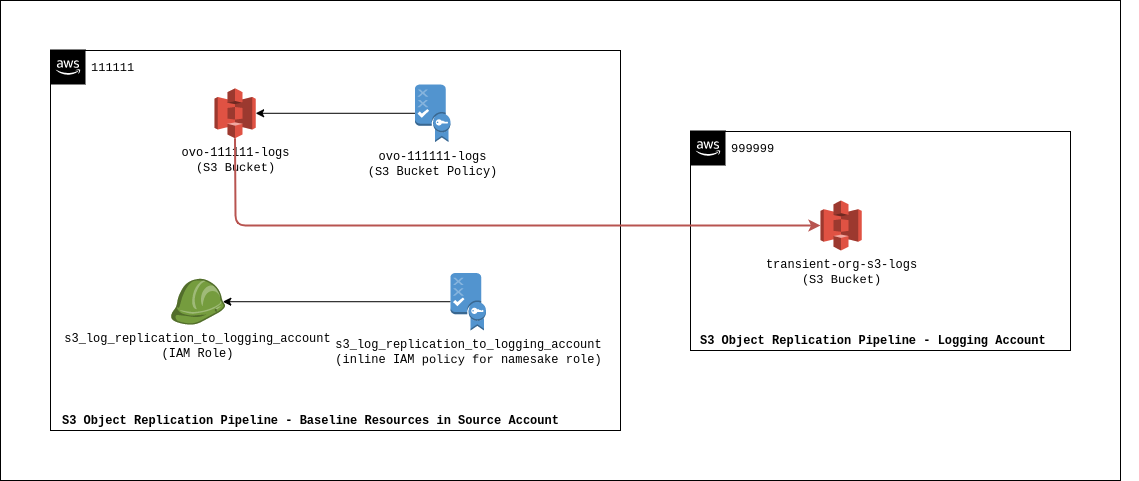
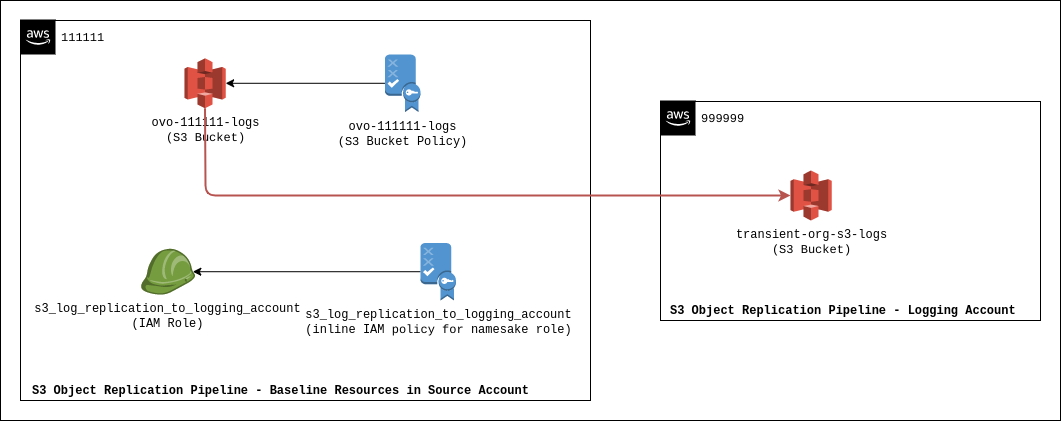
first draft of aws org logging

diff --git a/_posts/2021-06-05-aws-org-wide-logging.md b/_posts/2021-06-05-aws-org-wide-logging.md
@@ -1,0 +1,118 @@
+---
+layout: post
+title: "AWS Log Centralization"
+date: 2021-05-11T11:00:00+00:00
+author: alxk
+sitemap: false
+keywords: "security terraform cicd"
+description: "Centralizing infrastructure logs in a large AWS organization."
+---
+
+# AWS Log Centralization
+
+I recently had to design and implement a centralized cloud infrastructure logging solution for a relatively large AWS organization.
+
+There are three types of AWS logs to consider:
+
+- CloudTrail logs AWS API activity (includind)
+- Logs for AWS services that log to S3
+- Logs for AWS services that log to CloudWatch
+
+This table shows which destinations some common AWS services support:
+
+| Logs                             | S3  | CloudWatch |
+| -------------------------------- | --- | ---------- |
+| VPC flow                         | ✅  | ✅         |
+| Route53 resolver queries         | ✅  | ✅         |
+| Load Balancer access (all types) | ✅  | ❌         |
+| CloudFront access                | ✅  | ❌         |
+| RDS query                        | ❌  | ✅         |
+| EKS audit                        | ❌  | ✅         |
+| API Gateway access               | ❌  | ✅         |
+| Elasticsearch                    | ❌  | ✅         |
+
+Given the disparate nature of these logs, I split the problem in two. In this post I will discuss centralizing logs from CloudTrail, S3 and CloudWatch into one account. I will discuss log normalization in a future blog post.
+
+## Overview
+
+The diagram below provides an overview of the entire solution. You will note that we use three different pipelines for the centralization phase: one for each log type. Logs originate from source accounts across the organization and are stored in a destination account dedicated to log storage and retrieval.
+
+![aws org logging architecture overview](https://alex.kaskaso.li/images/posts/aws-org-logging-architecture.png "aws org logging architecture overview"){: .center-image }
+
+In a nutshell:
+
+- CloudTrail logging is configured at the organization level for all accounts in the organization. These logs are stored in a bucket in the logging account.
+- S3-based logs are first stored in S3 buckets in source accounts and replicated to a single bucket in the logging account via S3 object replication.
+- CloudWatch-based logs are first stored in CloudWatch Log Groups in source accounts and sent to a single Firehose destination in the logging account via a Subscription Filter.
+
+The pros of this solution are:
+
+- Trivial for users to configure in source accounts.
+- Single destination S3 bucket and Firehose keeps it simple, stupid.
+- Users can still access logs in their source accounts.
+- Less costly than indexing everything in ELK or other stack.
+- Scales transparently.
+
+Some cons to consider:
+
+- S3 and CloudWatch logs are duplicated in the organization, incurring costs. We can keep this to a minimum by configuring short retention periods in source accounts.
+- The delay between logs being generated by AWS and processed by the centralization and normalization pipelines is non-negligeable. This can be controlled to a certain extent by fine-tuning Firehose and Glue settings.
+- S3 object replication presents a risk of log pollution that can't be entirely prevented.
+
+## CloudTrail Organization Trail
+
+I will not discuss this in detail as it's trivial to set up and well documented by AWS. We can set up an organization trail to log all CloudTrail logs across the organization to an arbitrary bucket by following [this guide](https://docs.aws.amazon.com/awscloudtrail/latest/userguide/creating-trail-organization.html).
+
+Organization trails can't be disabled by accounts in our organization, however we will want to ensure we have a SCP that prevents accounts from leaving our organization. Perhaps surprisingly, by default a child account user with sufficient privileges can remove the account from an organization, rendering our other SCPs useless!
+
+## Centralizing S3 logs
+
+S3 allows users to configure object replication for buckets. As the name indicates, this will replicate objects from one bucket into another bucket. We can use this to replicate objects from a single logging bucket in a source account to a destination bucket in the logging account.
+
+By using a single destination bucket and taking advantage of the default object prefix used by most AWS services for their logs (`AWSLogs\{account_id}\{service_logs}\...`), logs will be neatly organized by account ID in the destination bucket, without any additional work required (see diagram in Overview section). For services that don't use the default AWS prefix (e.g. CloudFront), this should be manually configured when setting up logging for the service.
+
+The following diagram illustrates the components of the S3 log replication pipeline in a source account:
+
+![aws org logging s3 overview](https://alex.kaskaso.li/images/posts/aws-org-logging-s3.png "aws org logging s3 overview"){: .center-image }
+
+These resources should be managed by organization admins and SCPs should be used to ensure:
+
+- The buckets and their objects can't be deleted.
+- Only AWS logging principals from relevant regions should be able to put objects in those buckets.
+- Users should not be able to modify the bucket, in particular the bucket policy or the replication configuration.
+
+The destination bucket policy should allow all accounts in the organization to `s3:ReplicateObject`. Note that unfortunately, AWS doesn't have a policy variable for account ID, meaning we can't effectively scope the prefix for `s3:ReplicationObject` to ensure that accounts can't write to each other's prefix. This means that a malicious user in a source account can write (but not overwrite) to another account's prefix (`AWSLogs\{other_account_id}\...`) by creating a new bucket and setting up an object replication configuration. A mitigation here is to detect the configuration of new object replication configurations in the organization.
+
+Some other considerations here include ensuring that object replicas should be [owned by the destination account](https://docs.aws.amazon.com/AmazonS3/latest/userguide/replication-walkthrough-3.html) and that replicas are not modified or deleted when the source object is modified or deleted.
+
+## Centralizing CloudWatch logs
+
+We can use Firehose to centralize logs from disparate CloudWatch Log Groups in the organization to a single bucket in the logging account. AWS has [good documentation on setting this up](https://docs.aws.amazon.com/AmazonCloudWatch/latest/logs/CrossAccountSubscriptions-Firehose.html).
+
+Here is a more detailed overview of the components in the CloudWatch logs centralization pipeline:
+
+```
+insert diagram
+```
+
+In a nutshell, CloudWatch Log Groups allow us to set up a CloudWatch Subscription Filter that points to a CloudWatch Log Destination. In plain English:
+
+> In AWS, we can set up a subscription to forward our (CloudWatch) logs to a destination.
+
+Here the CloudWatch Log Destination targets a Firehose in the logging account, and Firehose dumps its records into S3. Note that the CloudWatch Log Destination is in the logging account and is the same for the entire organisation.
+
+A key consideration here is that we will want to enforce a strict naming convention on CloudWatch Log Groups in order to identify the source service in the destination account. Services like RDS and EKS will enforce the following naming convention for the CloudWatch Log Groups, but for some other services (e.g. API Gateway) we will have to configure it manually:
+
+```
+/aws/{service_initialism}/{resource_id}/{resource_type}
+```
+
+Since Firehose logs the source account ID and the CloudWatch Log Group name in the records, we can use this to identify the account and resource that generated logs.
+
+Some other considerations here include ensuring that sensitive parameters are not logged (in particular for RDS, we should disable query parameters by enabling "terse" logging for DBs) and noting that CloudWatch Log Destinations are scoped by region. This means that if we operate in more than one region we will need a CloudWatch Log Destination in each region (but these can all point to the same Firehose in any region).
+
+## Closing Remarks
+
+At this point we have centralized all our infrastructure logs in a single account, allowing us to tightly control access and retention. However the logs are currently not stored particularly clean and usable fashion and have limited value.
+
+In a future blog post we will discuss normalizing the logs to improve queryability and shipping select logs to other services for further analysis.
